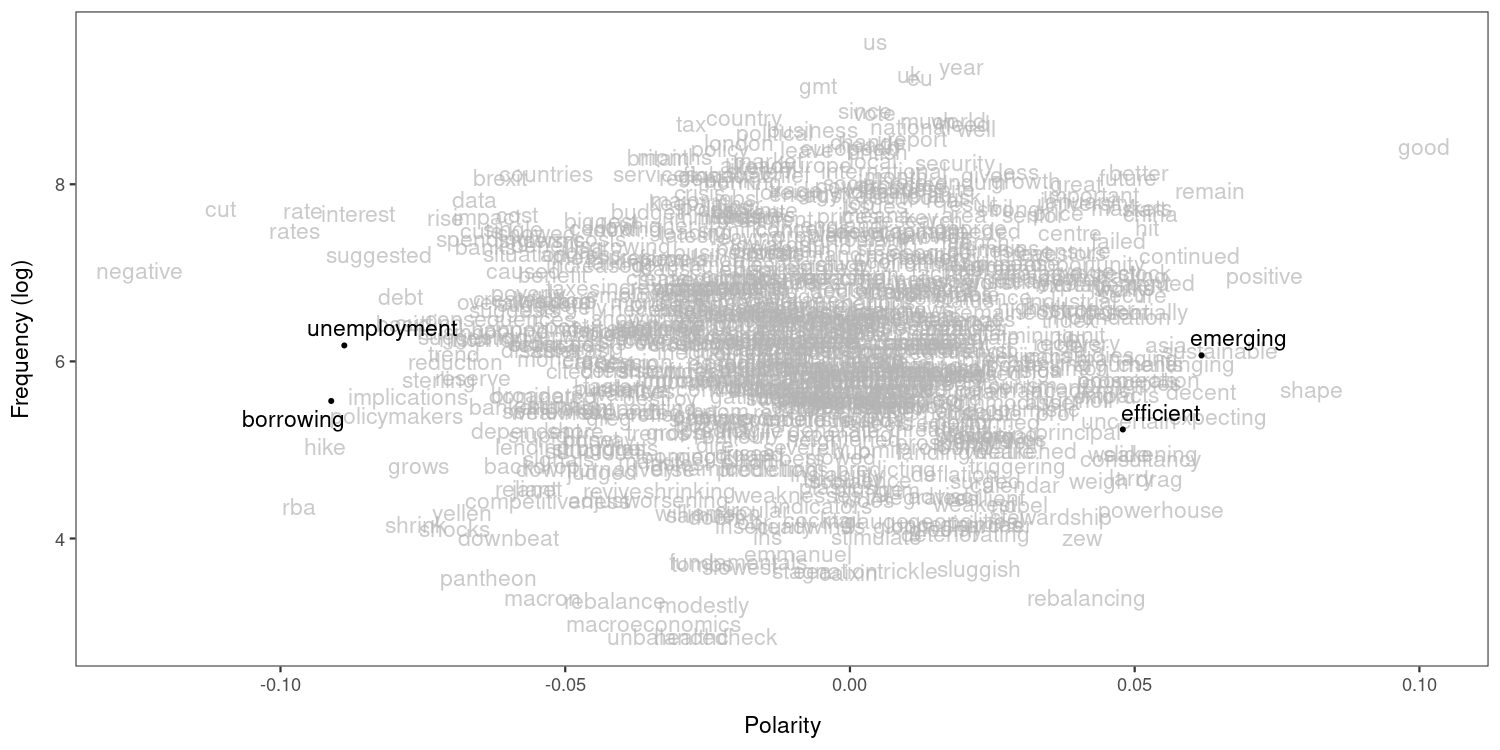
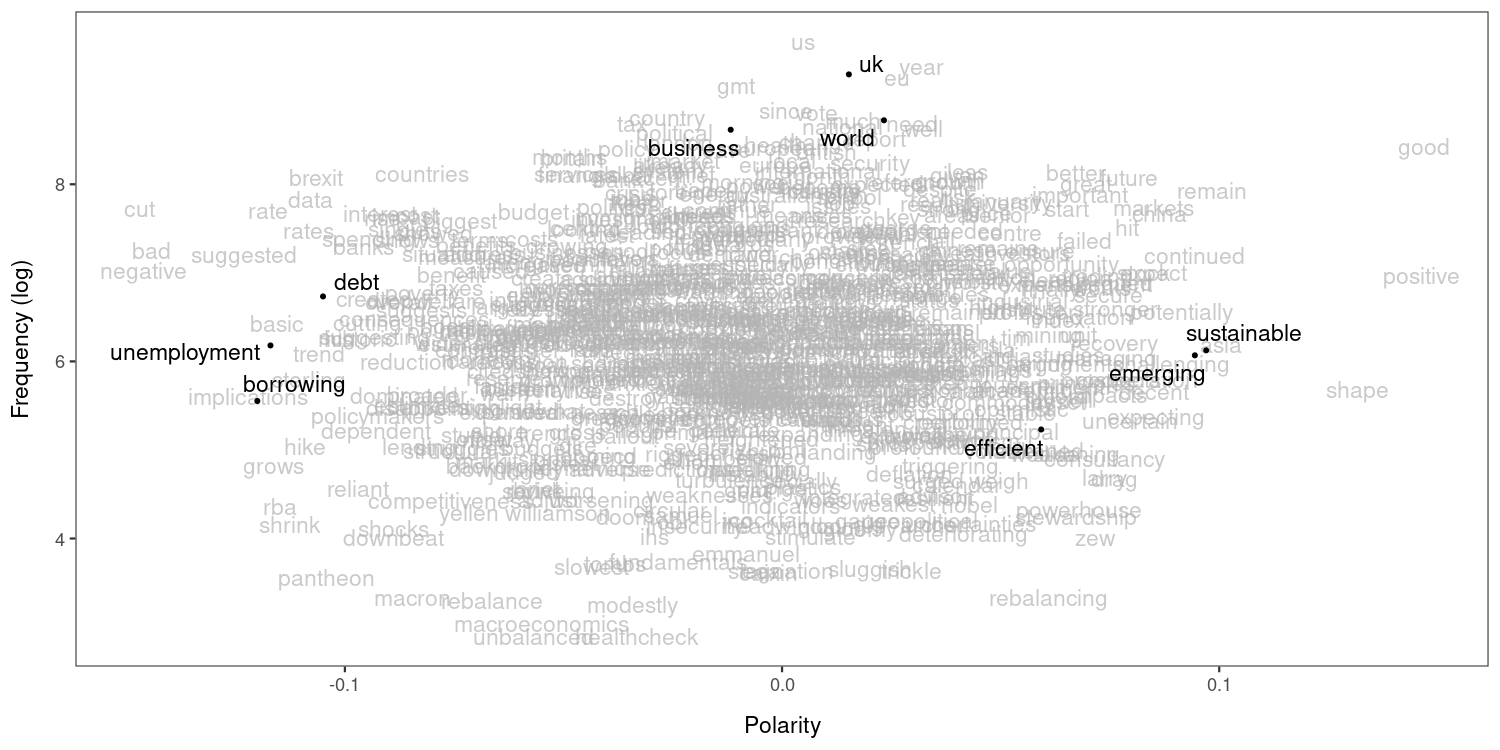
Updade hilighted words

diff --git a/README.md b/README.md
@@ -64,14 +64,17 @@ toks_sent <- corp %>%
     tokens(remove_punct = TRUE) %>% 
     tokens_remove(stopwords("en"), padding = TRUE)
 dfmt_sent <- toks_sent %>% 
-    dfm() %>%
-    dfm_remove("") %>% 
+    dfm(revemo_padding = TRUE) %>%
     dfm_select("^\\p{L}+$", valuetype = "regex", min_nchar = 2) %>% 
     dfm_trim(min_termfreq = 5)
+```
 
+    ## Warning: revemo_padding argument is not used.
+
+``` r
 eco <- char_context(toks_sent, "econom*", p = 0.05)
 lss <- textmodel_lss(dfmt_sent, as.seedwords(data_dictionary_sentiment), 
-                     terms = eco, k = 300, cache = TRUE)
+                     terms = eco, auto_weight = TRUE, k = 300, cache = TRUE)
 ```
 
     ## Reading cache file: lss_cache/svds_e5089465ba658d1a.RDS
@@ -99,37 +102,38 @@ to seed words.
 head(coef(lss), 20) # most positive words
 ```
 
-    ##        good       shape    positive sustainable   expecting      remain 
-    ##  0.10086678  0.08100301  0.07287992  0.06489614  0.06459612  0.06327885 
-    ##    emerging      decent   continued challenging        asia  powerhouse 
-    ##  0.06173428  0.06158674  0.05958519  0.05735492  0.05545359  0.05454087 
-    ##        drag      argued       china         hit       stock       start 
-    ##  0.05430134  0.05425140  0.05269536  0.05213953  0.05177975  0.05162649 
-    ##   weakening consultancy 
-    ##  0.05153202  0.05108261
+    ##        good    positive       shape        asia      remain sustainable 
+    ##  0.14692531  0.14625752  0.13157273  0.10045343  0.09826269  0.09702084 
+    ##    emerging   continued potentially challenging       china   expecting 
+    ##  0.09443049  0.09426020  0.09143613  0.08905550  0.08633932  0.08550641 
+    ##      decent     markets      expect       stock cooperation   uncertain 
+    ##  0.08506407  0.08497540  0.08486704  0.08273883  0.08127225  0.07949043 
+    ##      future         hit 
+    ##  0.07941483  0.07888814
 
 ``` r
 tail(coef(lss), 20) # most negative words
 ```
 
-    ##      raising         rise     sterling      cutting        grows       shrink 
-    ##  -0.07002333  -0.07106325  -0.07220668  -0.07389086  -0.07568230  -0.07626922 
-    ## implications        basic         debt policymakers    suggested     interest 
-    ##  -0.07767036  -0.07848986  -0.07896652  -0.07970222  -0.08267444  -0.08631343 
-    ## unemployment    borrowing         hike         rate          rba        rates 
-    ##  -0.08879022  -0.09109017  -0.09224650  -0.09598675  -0.09672486  -0.09754047 
-    ##          cut     negative 
-    ##  -0.11047689  -0.12472812
+    ##     pantheon         debt        trend       brexit         data     sterling 
+    ##   -0.1042108   -0.1049986   -0.1060193   -0.1064971   -0.1079335   -0.1081180 
+    ##        rates         hike       shrink          rba        basic        grows 
+    ##   -0.1082183   -0.1091890   -0.1127559   -0.1147965   -0.1156016   -0.1164406 
+    ## unemployment         rate    borrowing implications    suggested          bad 
+    ##   -0.1170247   -0.1176705   -0.1200251   -0.1220836   -0.1230534   -0.1441512 
+    ##     negative          cut 
+    ##   -0.1459998   -0.1469415
 
-This plot shows that frequent words (“said”, “people”, “also”) are
+This plot shows that frequent words (“world”, “country”, “uk”) are
 neutral while less frequent words such as “borrowing”, “unemployment”,
-“emerging” and “efficient” are either negative or positive.
+“debt”, “emerging”, “efficient” are “sustainable” are either negative or
+positive.
 
 ``` r
 textplot_terms(lss, 
-               highlighted = c("said", "people", "also",
-                               "borrowing", "unemployment",
-                               "emerging", "efficient"))
+               highlighted = c("world", "business", "uk",
+                               "borrowing", "unemployment", "debt",
+                               "emerging", "efficient", "sustainable"))
 ```
 
 ![](images/words-1.png)<!-- -->
